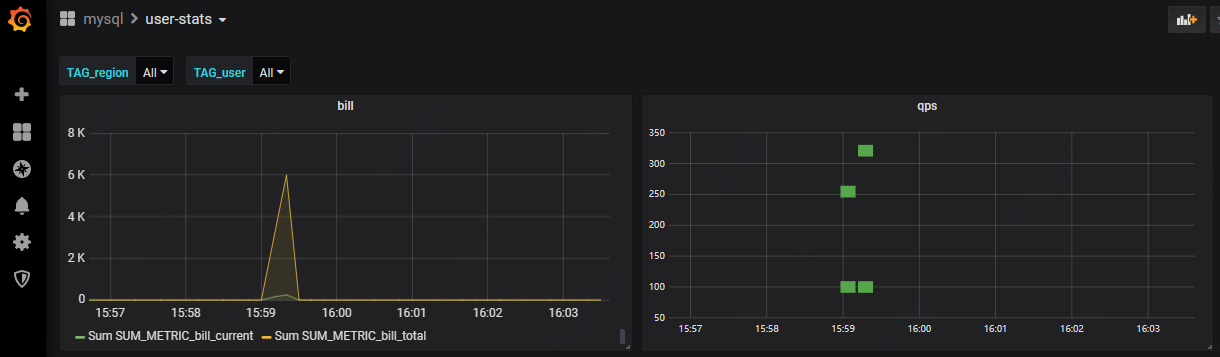
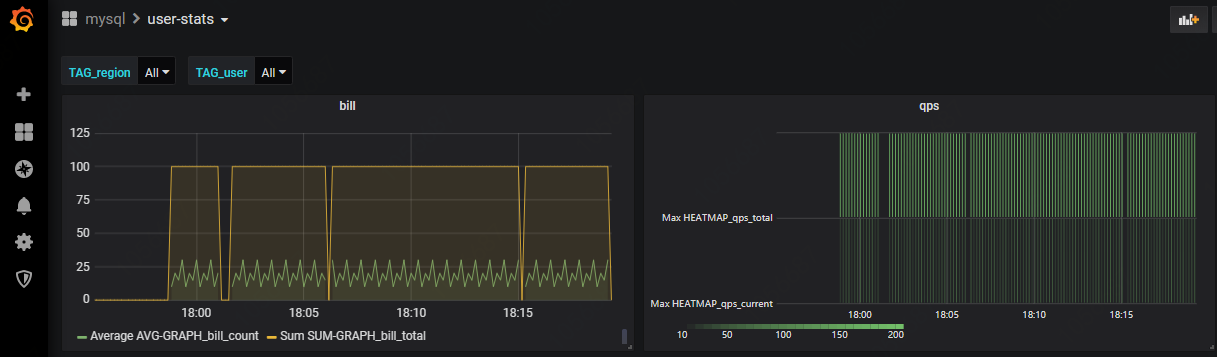
optimize code

diff --git a/es_graph.go b/es_graph.go
@@ -241,7 +241,8 @@ func ExtractEs(esUrl, index string) ([]string, []string, error) {
 			if strings.HasPrefix(field, FIELD_TAG_PREFIX) {
 				tags = append(tags, field)
 			} else if strings.HasPrefix(field, FIELD_METRIC_PREFIX) || strings.HasPrefix(field, FIELD_SUM_METRIC_PREFIX) ||
-				strings.HasPrefix(field, FIELD_GRAPH_PREFIX) || strings.HasPrefix(field, FIELD_HEATPMAP_PREFIX) {
+				strings.HasPrefix(field, FIELD_AVG_GRAPH_PREFIX) || strings.HasPrefix(field, FIELD_SUM_GRAPH_PREFIX) ||
+				strings.HasPrefix(field, FIELD_HEATPMAP_PREFIX) {
 				metrics = append(metrics, field)
 			}
 		}
@@ -253,10 +254,6 @@ func ExtractEs(esUrl, index string) ([]string, []string, error) {
 }
 
 func NewEsDataSource(esUrl string, db string, user, password string) sdk.Datasource {
-	//	jsonData
-	//	esVersion: 60
-	//keepCookies: []
-	//timeField: "@timestamp"
 	tmp := true
 	ds := sdk.Datasource{
 		Access:            "proxy",
@@ -356,21 +353,33 @@ func splitMetrics(metrics []string) (graphResult, heatmapResult map[string][]str
 	heatmapResult = map[string][]string{}
 	var graphMetric, heatpmapMetric string
 	for _, metric := range metrics {
-		if strings.HasPrefix(metric, FIELD_HEATPMAP_PREFIX) {
-			heatpmapMetric = splitMetricSuffix(splitMetricPrefix(splitPanelTypePrefix(metric)))
+		unifyMetric := transformToUnify(metric)
+		if strings.HasPrefix(unifyMetric, FIELD_HEATPMAP_PREFIX) {
+			heatpmapMetric = splitMetricSuffix(splitPanelTypePrefix(unifyMetric))
 			if heatpmapMetric == "" {
-				heatmapResult[splitPanelTypePrefix(metric)] = append(heatmapResult[splitPanelTypePrefix(metric)], metric)
+				heatmapResult[metric] = append(heatmapResult[metric], metric)
 			} else {
 				heatmapResult[heatpmapMetric] = append(heatmapResult[heatpmapMetric], metric)
 			}
 		} else {
-			graphMetric = splitMetricSuffix(splitMetricPrefix(splitPanelTypePrefix(metric)))
+			graphMetric = splitMetricSuffix(splitPanelTypePrefix(unifyMetric))
 			if graphMetric == "" {
-				graphResult[splitPanelTypePrefix(metric)] = append(graphResult[splitPanelTypePrefix(metric)], metric)
+				graphResult[metric] = append(graphResult[metric], metric)
 			} else {
 				graphResult[graphMetric] = append(graphResult[graphMetric], metric)
 			}
 		}
+	}
+	return
+}
+
+var transformToUnify = func(metric string) (result string){
+	if strings.HasPrefix(metric, FIELD_METRIC_PREFIX){
+		result = FIELD_AVG_GRAPH_PREFIX + strings.TrimPrefix(metric, FIELD_METRIC_PREFIX)
+	}else if strings.HasPrefix(metric, FIELD_SUM_METRIC_PREFIX){
+		result = FIELD_SUM_GRAPH_PREFIX + strings.TrimPrefix(metric, FIELD_SUM_METRIC_PREFIX)
+	}else{
+		result = metric
 	}
 	return
 }
@@ -385,25 +394,9 @@ var splitMetricSuffix = func(metric string) (result string) {
 	return
 }
 
-var splitPanelTypePrefix = func(metric string) (result string) {
-	if strings.HasPrefix(metric, FIELD_HEATPMAP_PREFIX) {
-		result = strings.TrimPrefix(metric, FIELD_HEATPMAP_PREFIX)
-	} else if strings.HasPrefix(metric, FIELD_GRAPH_PREFIX) {
-		result = strings.TrimPrefix(metric, FIELD_GRAPH_PREFIX)
-	} else {
-		result = metric
-	}
-	return
-}
-
-var splitMetricPrefix = func(metric string) (result string) {
-	if strings.HasPrefix(metric, FIELD_METRIC_PREFIX) {
-		result = strings.TrimPrefix(metric, FIELD_METRIC_PREFIX)
-	} else if strings.HasPrefix(metric, FIELD_SUM_METRIC_PREFIX) {
-		result = strings.TrimPrefix(metric, FIELD_SUM_METRIC_PREFIX)
-	} else {
-		result = metric
-	}
+var splitPanelTypePrefix = func (metric string) (result string){
+	index := strings.Index(metric, "_")
+	result = metric[index+1:]
 	return
 }
 
@@ -513,6 +506,10 @@ func NewHeatmapPanel(myDataSource string, panelId uint, panelIndex int, panelTil
 
 	heatmapPanel.HeatmapPanel.Targets[0].Query = luceneQuery
 	heatmapPanel.HeatmapPanel.Targets[0].BucketAggs[0].Settings.Interval = panelInterval
+	if len(myMetrics) > 1 {
+		heatmapPanel.HeatmapPanel.DataFormat = "tsbuckets"
+		heatmapPanel.HeatmapPanel.Legend.Show = true
+	}
 
 	metrics := make([]sdk.Metric, len(myMetrics))
 	for i, metric := range myMetrics {
@@ -527,7 +524,7 @@ func NewHeatmapPanel(myDataSource string, panelId uint, panelIndex int, panelTil
 }
 
 var getMetricType = func(metric string) (mType string) {
-	if strings.HasPrefix(metric, FIELD_SUM_METRIC_PREFIX) {
+	if strings.HasPrefix(metric, FIELD_SUM_METRIC_PREFIX) || strings.HasPrefix(metric, FIELD_SUM_GRAPH_PREFIX) {
 		mType = "sum"
 	} else {
 		mType = "avg"

diff --git a/es_store.go b/es_store.go
@@ -20,24 +20,25 @@ import (
 )
 
 //var INDEX_PREFIX string = "jvessel-grafana-"
-var INDEX_PREFIX string = "grafana--"
-var ALIAS_PREFIX string = "graf-alias--"
+var INDEX_PREFIX = "grafana3--"
+var ALIAS_PREFIX = "graf-alias--"
 
-var FIELD_SERVICE string = "service"
-var FIELD_MODEL string = "model"
-var FIELD_TIMESTAMP string = "@timestamp"
-var FIELD_TAG_PREFIX string = "TAG_"
-var FIELD_GRAPH_PREFIX string = "GRAPH_"
-var FIELD_HEATPMAP_PREFIX string = "HEATMAP_"
-var FIELD_METRIC_PREFIX string = "METRIC_"
-var FIELD_SUM_METRIC_PREFIX string = "SUM_METRIC_"
+var FIELD_SERVICE = "service"
+var FIELD_MODEL = "model"
+var FIELD_TIMESTAMP = "@timestamp"
+var FIELD_TAG_PREFIX = "TAG_"
+var FIELD_AVG_GRAPH_PREFIX = "AVG-GRAPH_"
+var FIELD_SUM_GRAPH_PREFIX = "SUM-GRAPH_"
+var FIELD_HEATPMAP_PREFIX = "HEATMAP_"
+var FIELD_METRIC_PREFIX = "METRIC_"
+var FIELD_SUM_METRIC_PREFIX = "SUM_METRIC_"
 
-var FIELD_TAG_REGION string = "TAG_region"
-var FIELD_TAG_AZ string = "TAG_az"
-var FIELD_TAG_HOST string = "TAG_host"
-var FIELD_TAG_SOURCE_TYPE string = "TAG_source_type"
-var FIELD_TAG_FLAVOR string = "TAG_flavor"
-var FIELD_TAG_USER string = "TAG_user"
+var FIELD_TAG_REGION = "TAG_region"
+var FIELD_TAG_AZ = "TAG_az"
+var FIELD_TAG_HOST = "TAG_host"
+var FIELD_TAG_SOURCE_TYPE = "TAG_source_type"
+var FIELD_TAG_FLAVOR = "TAG_flavor"
+var FIELD_TAG_USER = "TAG_user"
 
 var ExpectTagsSort = []string{FIELD_TAG_SOURCE_TYPE, FIELD_TAG_FLAVOR, FIELD_TAG_REGION, FIELD_TAG_AZ, FIELD_TAG_HOST, FIELD_TAG_USER}
 

diff --git a/main/es2grafana.go b/main/es2grafana.go
@@ -22,7 +22,7 @@ func main() {
 	service := flag.String("service", "mysql", "es index field service")
 	model := flag.String("model", "user-stats", "es index field model")
 	grafana := flag.String("grafana", "http://127.0.0.1:3000", "grafana url")
-	key := flag.String("key", "admin", "grafana api key")
[1 lines of base64/hex data omitted]
 	flag.Parse()
 
 	/*mypanel := []autografana.MyPanel{
@@ -39,6 +39,6 @@ func main() {
 		},
 	}*/
 
-	url, err := autografana.Es2Grafana(*es, *esHasAuth, *user, *password, *service, *model, *grafana, key, nil, nil, nil, nil)
+	url, err := autografana.Es2Grafana(*es, *esHasAuth, *user, *password, *service, *model, *grafana, *key, nil, nil, nil, nil)
 	fmt.Println(url, err)
 }

diff --git a/README.md b/README.md
@@ -9,16 +9,13 @@
 - model：必须字段，区分不同类型metric
 - @timestamp:必须字段，时间戳,格式"2019-01-01T01:00:00+08:00"
 - TAG_xxx:自定义字段，用于筛选，xxx可以自定义，要求多余一个
-- xxx_METRIC_xxx:表示panel中的监控指标,可以多余一个,一共可以定义以下几种格式
-   - METRIC_xxx/GRAPH_METRIC_xxx:表示该metric生成graph类型的panel，并且metric的聚合方式为avg
-   - SUM_METRIC_xxx/GRAPH_SUM_METRIC_xxx:表示该metric生成graph类型的panel，并且metric的聚合方式为sum
-   - HEATMAP_METRIC_xxx:表示该metric生成heatpmap类型的panel，默认metric的聚合方式为max
+- AVG-GRAPH_xxx/SUM-GRAPH_xxx/HEATMAP_xxx:用于计数,可以多余一个
 
 示例：
 ```
-{"service":"mysql", "model":"user-stats", "@timestamp":"", "TAG_region":"hb", "TAG_user":"tom", "SUM_METRIC_bill_current":100, "SUM_METRIC_bill_total":6000, "HEATMAP_METRIC_qps_current":100, "HEATMAP_METRIC_qps_total":250}
+{"service":"mysql", "model":"user-stats", "@timestamp":"", "TAG_region":"hb", "TAG_user":"tom", "AVG-GRAPH_bill_current":100, "SUM-GRAPH_bill_total":6000, "HEATMAP_qps_current":100, "HEATMAP_qps_total":250}
 
-{"service":"mysql", "model":"resouce-stats", "@timestamp":"", "TAG_region":"hb", "TAG_user":"mary", "METRIC_cpu":10}
+{"service":"mysql", "model":"resouce-stats", "@timestamp":"", "TAG_region":"hb", "TAG_user":"jerry", "AVG-GRAPH_cpu":10}
 ```
 ## 1.2 es索引
 
@@ -27,7 +24,7 @@ index名字,xxxx为年月,按照年月进行切分
 
 index mapping  
 - TAG_xxx自动创建为keyword
-- xxx_METRIC_xxx自动创建为long
+- AVG-GRAPH_xxx/SUM-GRAPH_xxx/HEATMAP_xxx自动创建为long
 
 index template:创建index时的schema
 - [template.sh](./template.sh)
@@ -43,17 +40,14 @@ index template:创建index时的schema
 
 - @timestamp作为横轴。  
 - TAG_xxx: 绘制成下拉框，用于选择, 支持TAG_xxx排序和搜索级联. 
-- xxx_METRIC_xxx: 会变成纵轴的值
-   - 以METRIC_/GRAPH_METRIC_开头的metric聚合方式为Average
-   - 以SUM_METRIC_/GRAPH_SUM_METRIC_开头的metric聚合方式为sum
-- 支持两种panel类型：graph和heatmap
-   - 以METRIC_或GRAPH_METRIC_开头的metric会生成graph类型的panel
-   - 以HEATMAP_METRIC_开头的metric会生成heatmap类型的panel
-   - 默认情况下，有相同前缀的METRIC会合并到一个panel中,例如:
-      - METRIC_bill_current和METRIC_bill_total会放置在title为bill,类型为graph的同一个panel里
-      - HEATMAP_qps_current和HEATMAP_qps_total会放置在title为qps,类型为heatmap的同一个panel里
+- AVG-GRAPH_xxx/SUM-GRAPH_xxx/HEATMAP_xxx: 会变成纵轴的值
+   - AVG-GRAPH_xxx:表示该metric放置在graph类型的panel，并且metric的聚合方式为avg
+   - SUM-GRAPH_xxx:表示该metric放置在graph类型的panel，并且metric的聚合方式为sum
+   - HEATMAP_xxx:表示该metric放置在heatpmap类型的panel，默认metric的聚合方式为max
+   - 若xxx部分定义了相同前缀的多个metric，则默认会将这些metric放置在同一个panel中
+       - AVG-GRAPH_bill_current和AVG-GRAPH_bill_total会放置在title为bill,类型为graph的同一个panel里
+       - HEATMAP_qps_current和HEATMAP_qps_total会放置在title为qps,类型为heatmap的同一个panel里
    - 如果想定制panel中的metric, 需要指定Es2Grafana中的myPanels参数
-
 
 
 # 3. 架构推荐
@@ -75,7 +69,7 @@ export ESDOMAIN=localhost:9200
 ./template.sh
 
 #index document
-./es-store -es='http://localhost:9200' -doc='{"service":"mysql", "model":"user-stats", "@timestamp":"", "TAG_region":"hb", "TAG_user":"tom", "SUM_METRIC_bill_current":100, "SUM_METRIC_bill_total":6000, "HEATMAP_METRIC_qps_current":100, "HEATMAP_METRIC_qps_total":250}' 
+./es-store -es='http://localhost:9200' -doc='{"service":"mysql", "model":"user-stats", "@timestamp":"", "TAG_region":"hb", "TAG_user":"tom", "AVG-GRAPH_bill_current":100, "SUM-GRAPH_bill_total":6000, "HEATMAP_qps_current":100, "HEATMAP_qps_total":250}
 
 #generate grafana graph
 ./es2grafana -es='http://localhost:9200' -service='mysql' -model='user-stats' -grafana='http://localhost:3000' -key='admin:biliucheng'
